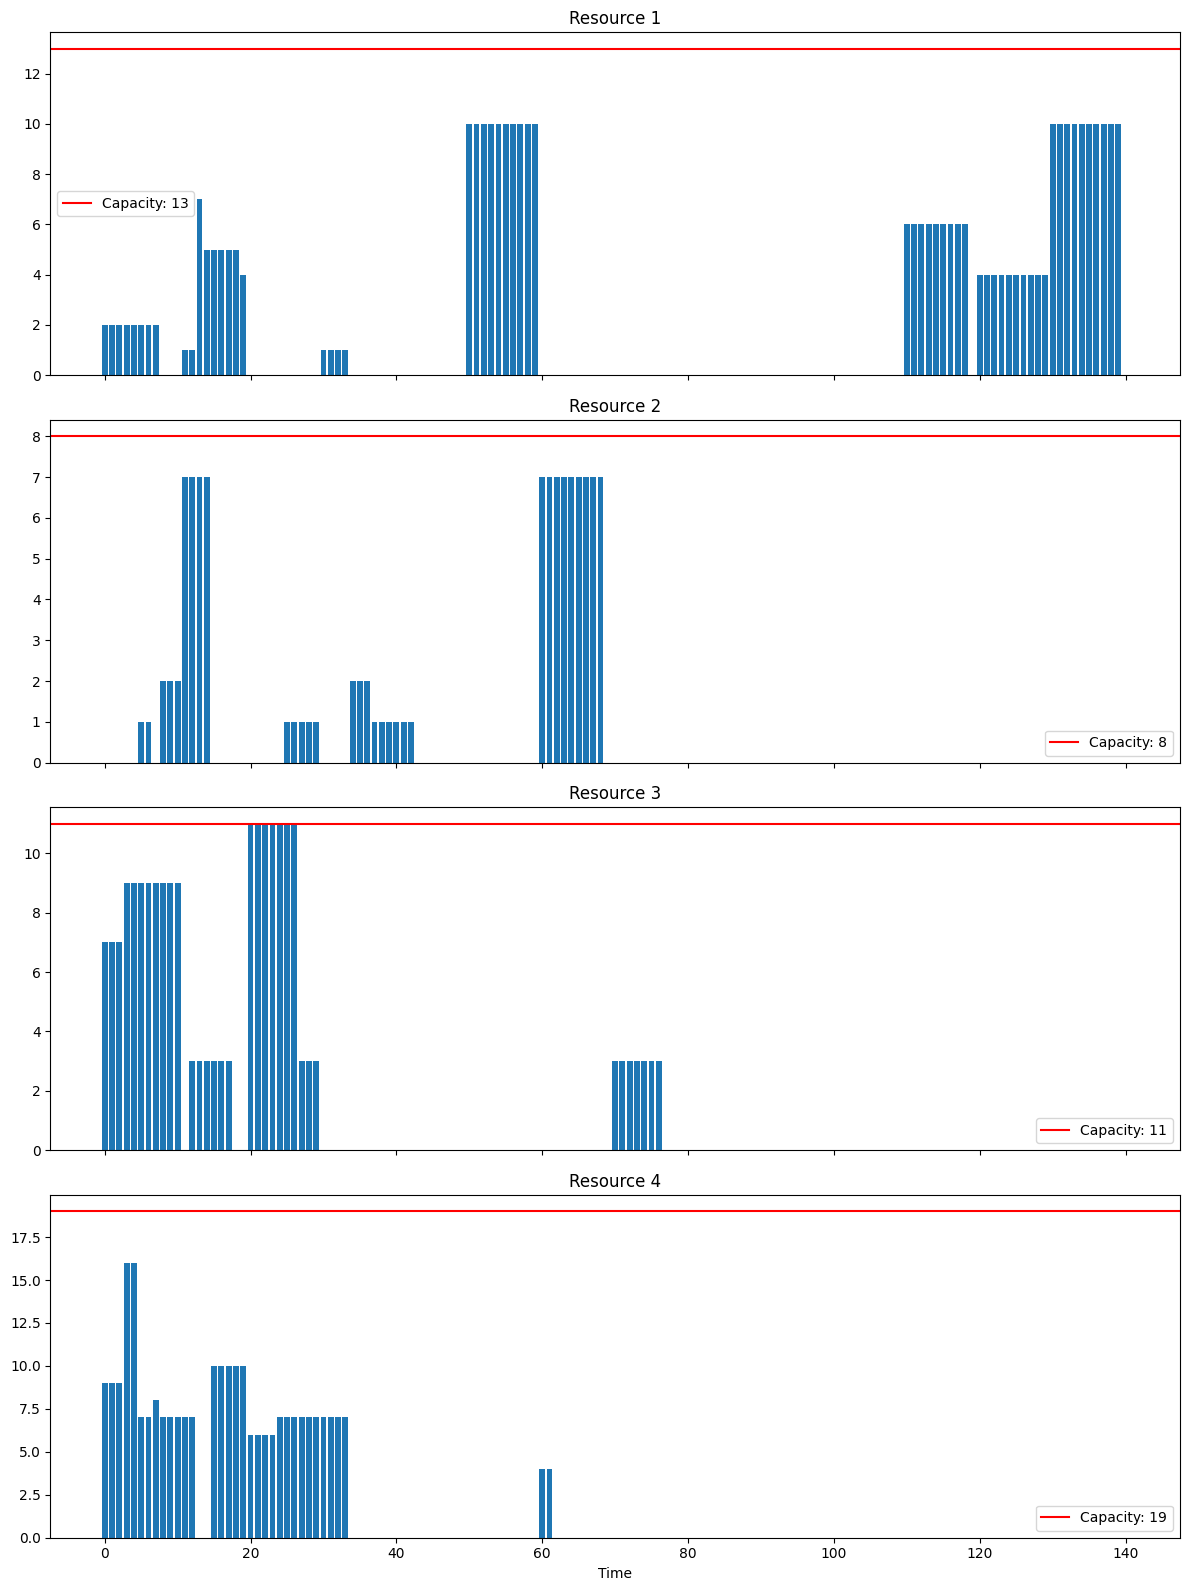
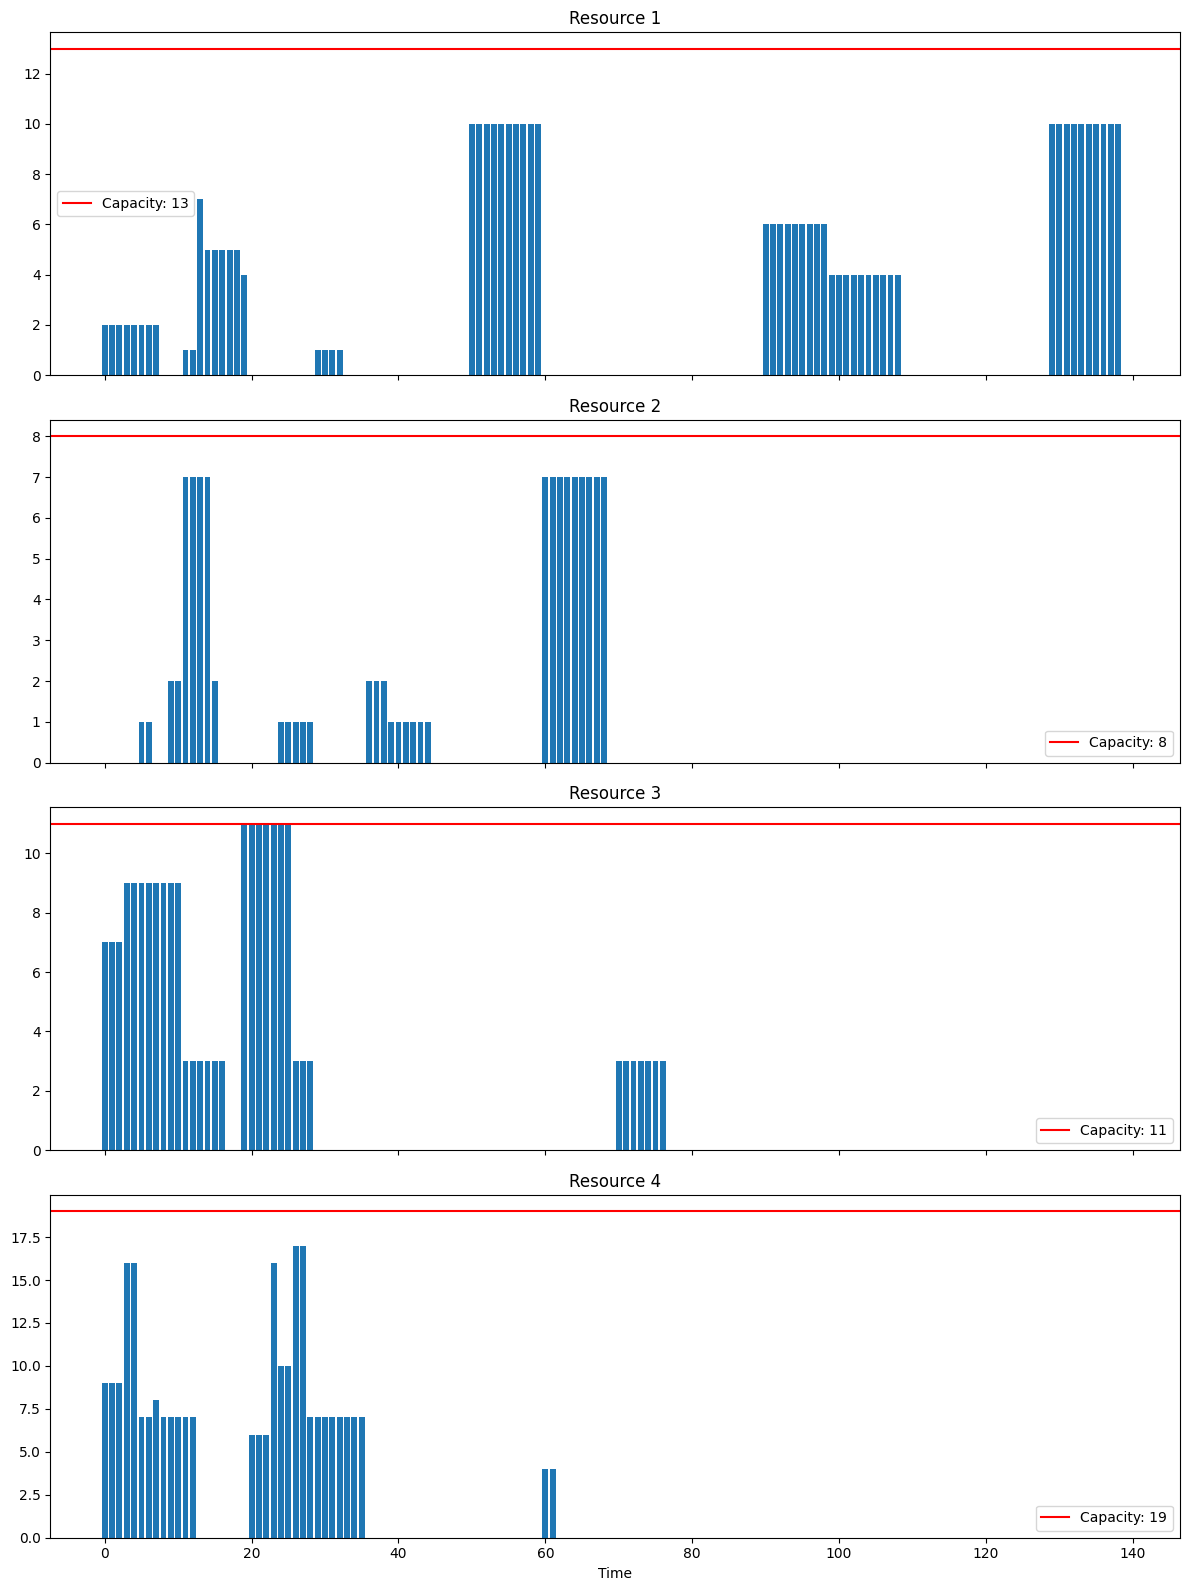
Adding bese VND algorithm

diff --git a/Devoir3/solver_VND.py b/Devoir3/solver_VND.py
@@ -1,0 +1,56 @@
+from typing import List, Tuple
+from rcpsp import RCPSP
+from time import time, sleep
+from tqdm import tqdm
+import random
+import numpy as np
+from utils.utils import generate_random_valid_solution
+
+
+def VND(r: RCPSP, time_limit=10*60):
+
+    start_time = time()
+    tic = start_time
+
+    with tqdm(total=time_limit) as progress_bar:
+
+        # Initial solution
+        solution = generate_random_valid_solution(r)
+
+        # Build the neighborhood priority list (priority to node that have the most sucessors)
+        nodes = sorted(list(r.graph.nodes))
+        del nodes[0]
+        node_neighbor = sorted([(node_id, len(list(r.graph.successors(node_id)))) for node_id in nodes], key=lambda x: -x[1])
+        print(node_neighbor)
+        node_neighbor = [element[0] for element in node_neighbor]
+
+        # Parameter
+        k = 1
+        k_max = len(node_neighbor) - 1
+
+        while k != k_max:
+        
+            new_solution =  local_search(r, solution, k, node_neighbor)
+            solution, k = neighborhood_change(r, solution, new_solution, k)
+            
+            if (tac:=time()) - start_time < time_limit:
+                progress_bar.update(tac - tic)
+                tic = tac
+            else:
+                print("\nTime out - Returning current best\n")
+                return solution
+
+    return solution
+
+
+def local_search(r: RCPSP, solution: list, k: int, node_neighbor: list):
+    return solution
+
+
+def neighborhood_change(r: RCPSP, solution: list, new_solution: list, k: int):
+    if r.get_solution_cost(new_solution) < r.get_solution_cost(solution):
+       return new_solution, k
+    else:
+        return solution, k+1
+
+

diff --git a/Devoir3/solver_advanced.py b/Devoir3/solver_advanced.py
@@ -1,10 +1,7 @@
 from typing import List, Tuple
 from rcpsp import RCPSP
 from time import time, sleep
-from tqdm import tqdm
-import random
-import numpy as np
-from utils.utils import generate_random_valid_solution
+from solver_VND import VND
 
 def solve(rcpsp: RCPSP) -> List[int]:
     """Advanced solver for the prize-collecting Steiner tree problem.
@@ -18,26 +15,5 @@ def solve(rcpsp: RCPSP) -> List[int]:
             as the tour starts from the depot
     """
     # Add here your solving process here
-    return algo_name(rcpsp, time_limit=30)
-
-
-def algo_name(r: RCPSP, time_limit=10*60):
-
-    start_time = time()
-    tic = start_time
-
-
-    with tqdm(total=time_limit) as progress_bar:
-
-        initial_solution = generate_random_valid_solution(r)
-
-        if (tac:=time()) - start_time < time_limit:
-            progress_bar.update(tac - tic)
-            tic = tac
-        else:
-            print("\nTime out - Returning current best\n")
-            return initial_solution
-
-    print(initial_solution)
-    return initial_solution
+    return VND(rcpsp, time_limit=30)
 
